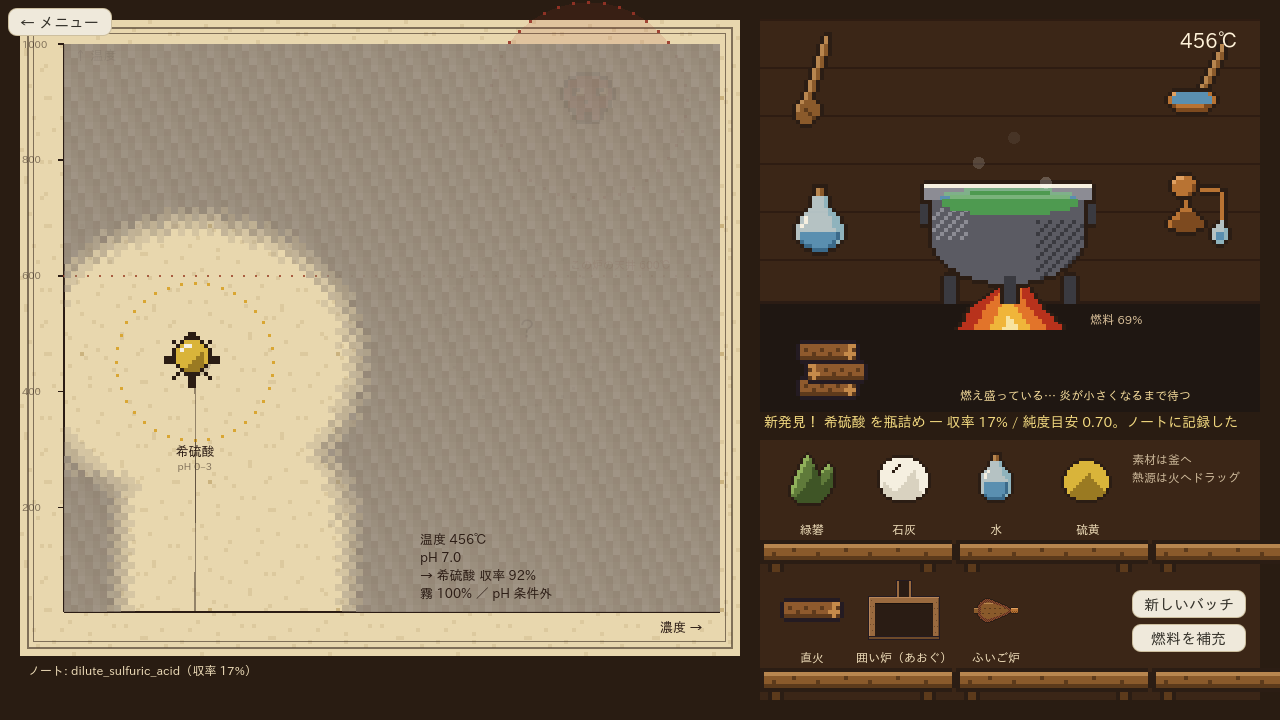
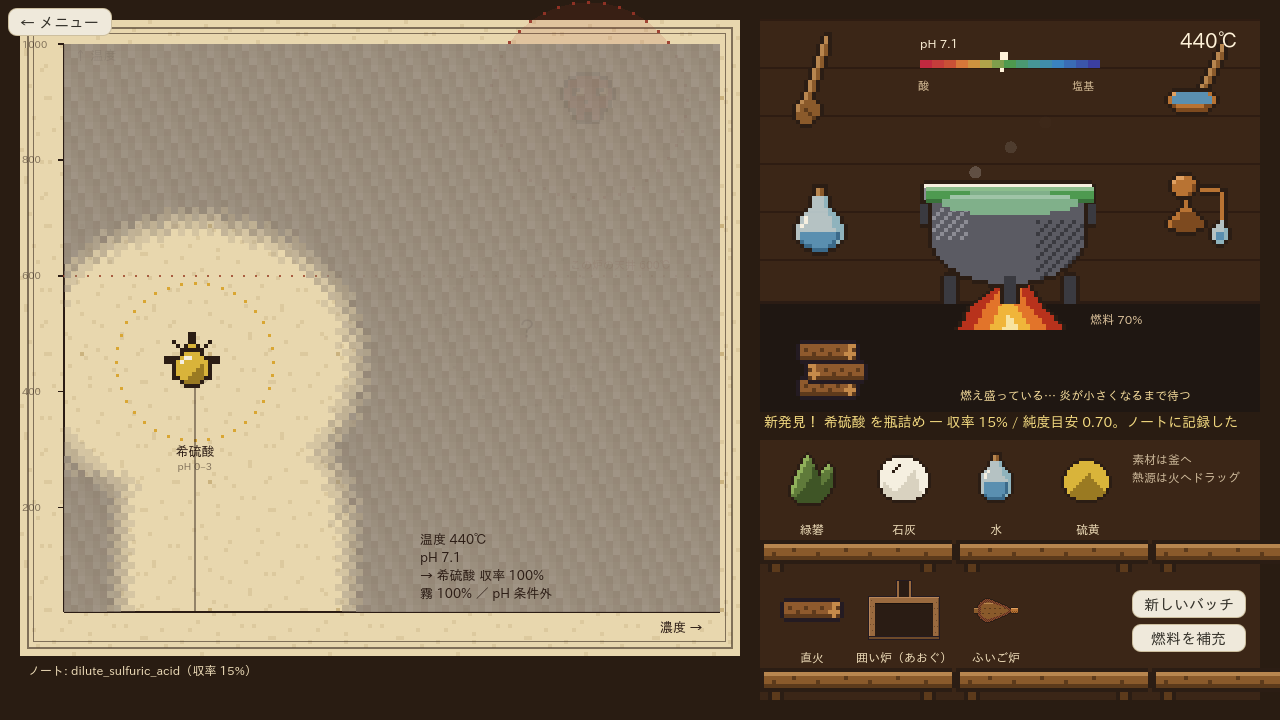
Show pH on the cauldron rim with a litmus scale
pH の表示を液面から釜の縁へ移す。

- cauldron_station.gd: 釜の縁をリトマス色（pH）で塗る。上の 1 行はハイライト、下の 1 行は影。
  釜の真上に pH の目盛り（0〜14 のリトマスの帯＋現在値の印、「酸」「塩基」）を添える
- 液面は中身の色（中立の煮汁色、暴走で黒ずむ）に戻し、pH の色は縁だけに
- alchemy_lab.gd: station.ph を毎フレーム渡す。docs/design/alchemy-lab.md の対応表を更新

Claude-Session: https://claude.ai/code/session_01FSKeZJFgvj51DQoS47Yb1w

diff --git a/docs/design/alchemy-lab.md b/docs/design/alchemy-lab.md
@@ -11,7 +11,7 @@
 
 | Potion Craft | 本作（錬金ラボ） | ロジック側 |
 |---|---|---|
-| 錬金マップ（羊皮紙） | 反応マップ（温度×濃度、pH は色） | `ReactionMap` / `ReactionSim` |
+| 錬金マップ（羊皮紙） | 反応マップ（温度×濃度）。pH は**釜の縁の色**（リトマス）と釜横の目盛りで読む | `ReactionMap` / `ReactionSim` / `PHModel` |
 | 材料を釜へドラッグ → 点線の経路が出る | 素材を釜へドラッグ。**かざした時点で点線の予告**、落とすと経路が確定 | `queue_material()` / `pending_points()` |
 | スプーンでかき混ぜる → 経路に沿って進む | **かき混ぜ棒を掴み、釜の中で円を描く**と経路を進む（1周＝1.5 単位） | `stir(distance)` |
 | ひしゃくで水 → 中心へ戻る | **ひしゃくを釜の上で保持**すると加水（左へ、pH は中性へ） | `add_water()` |
